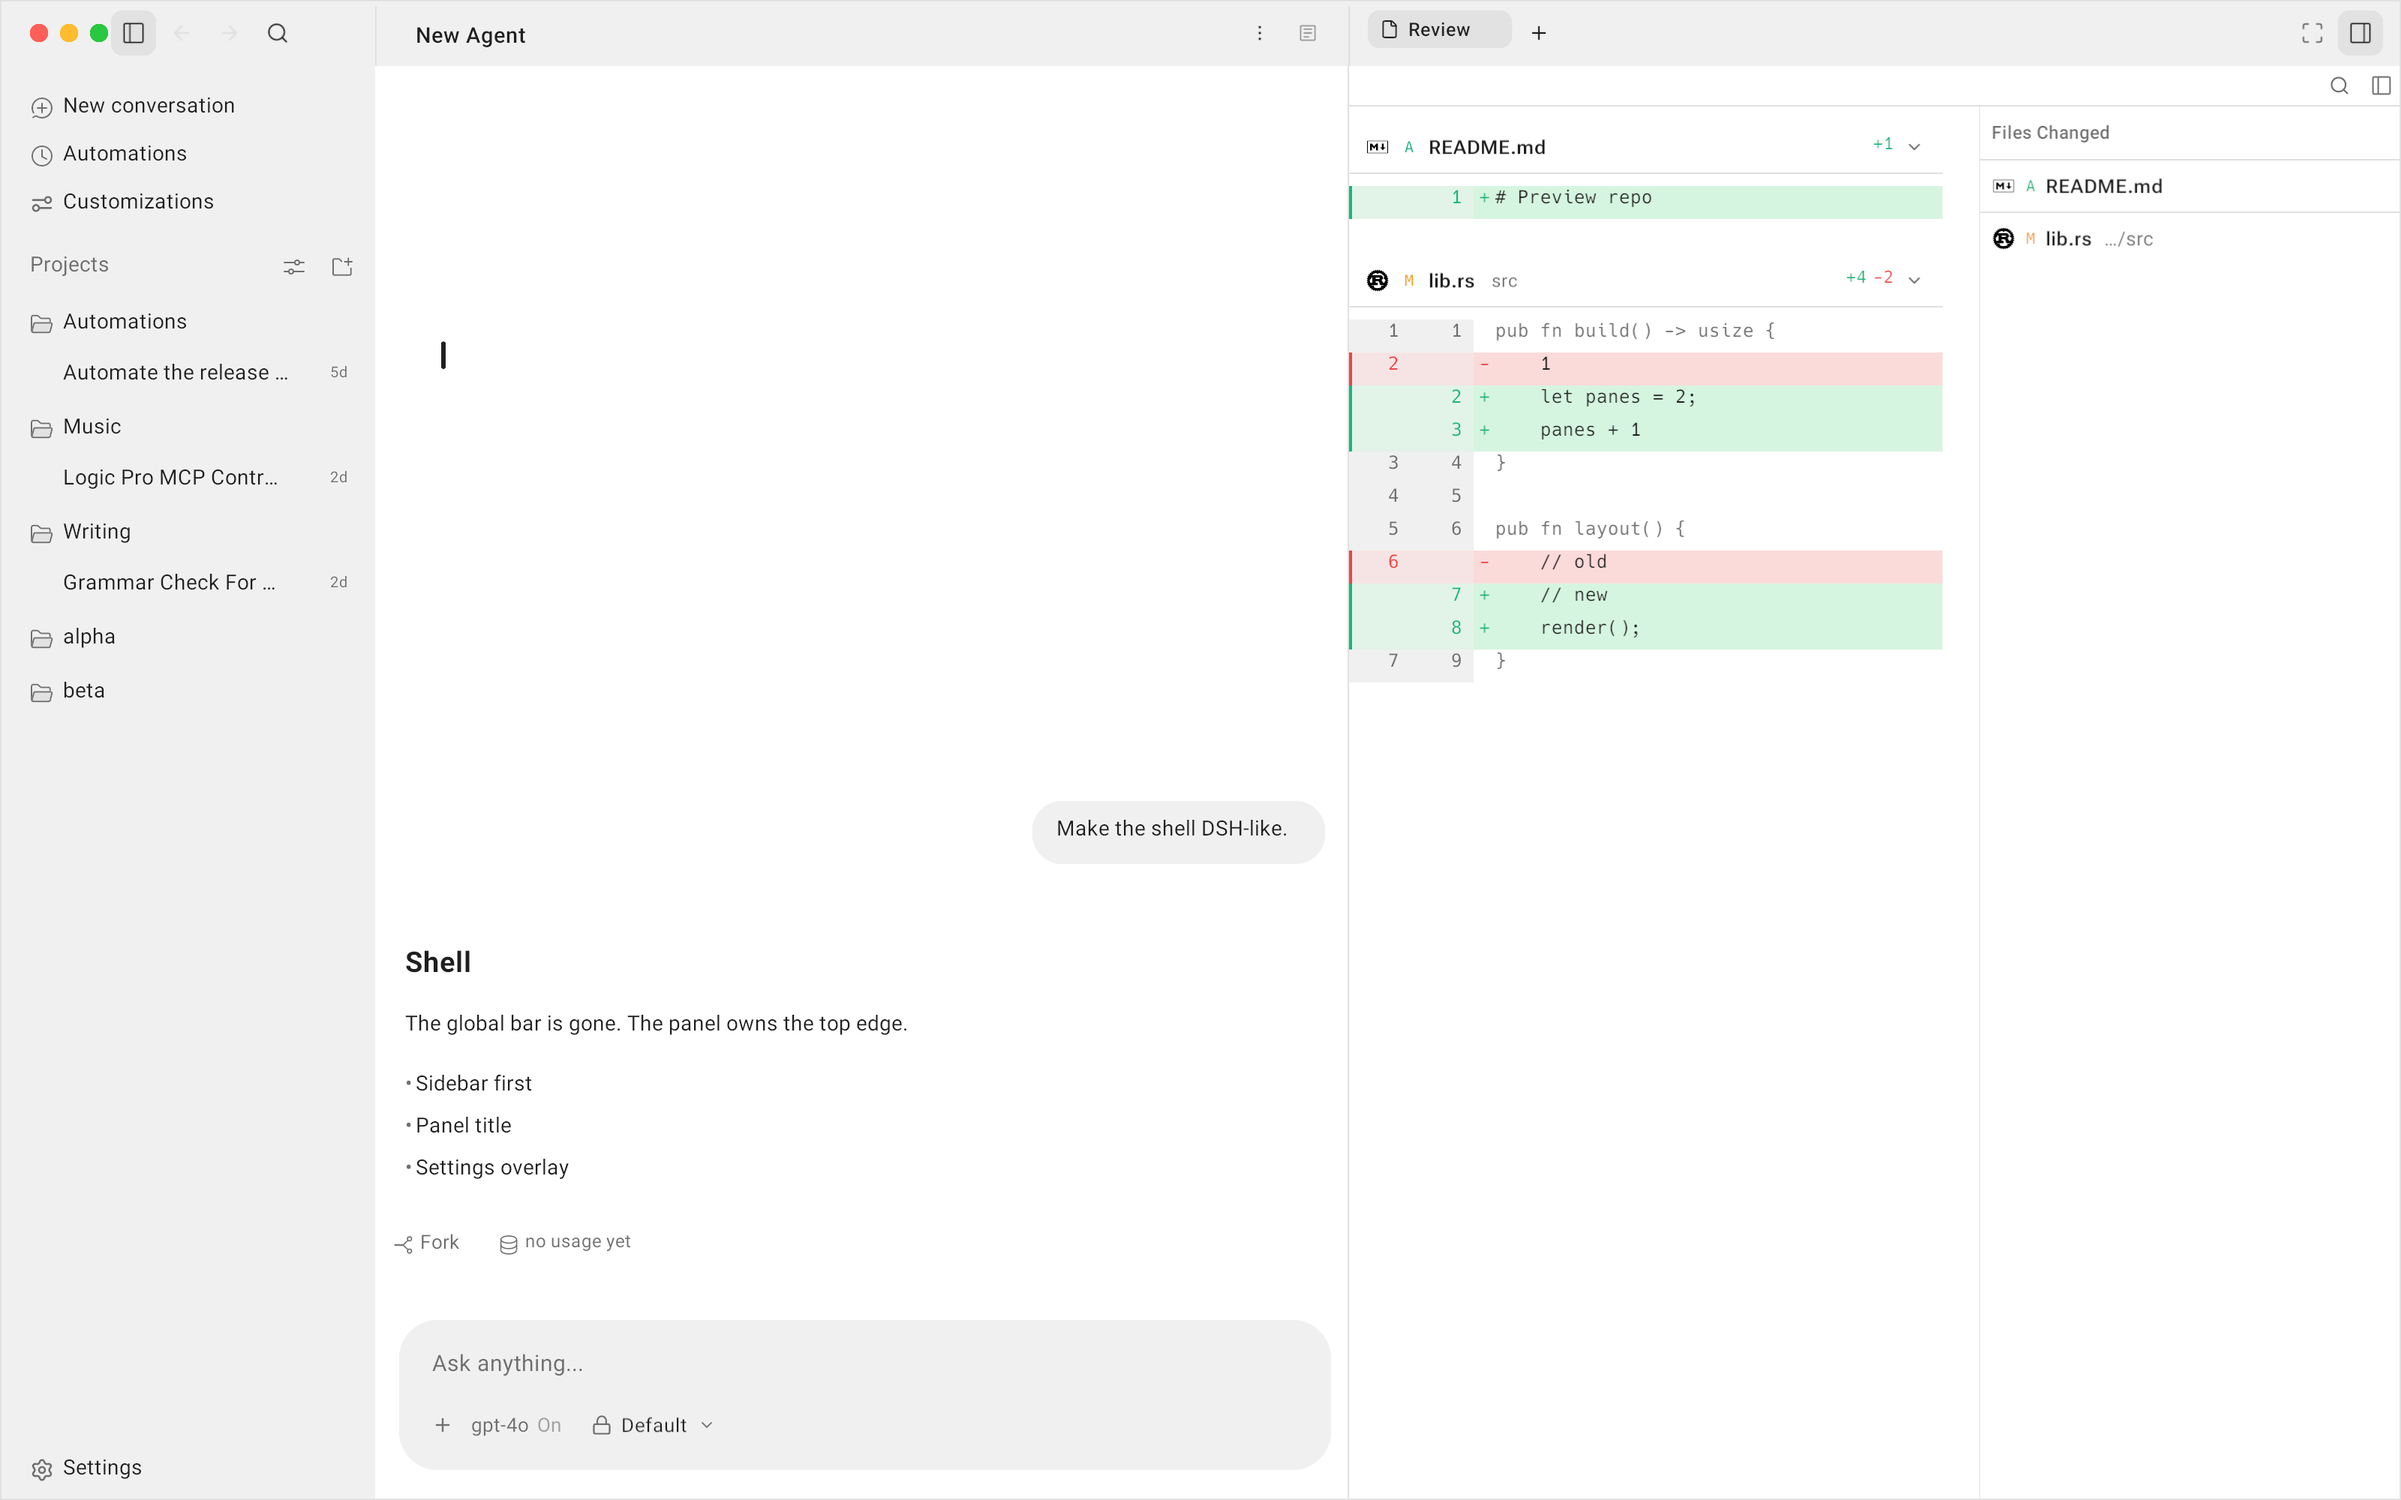
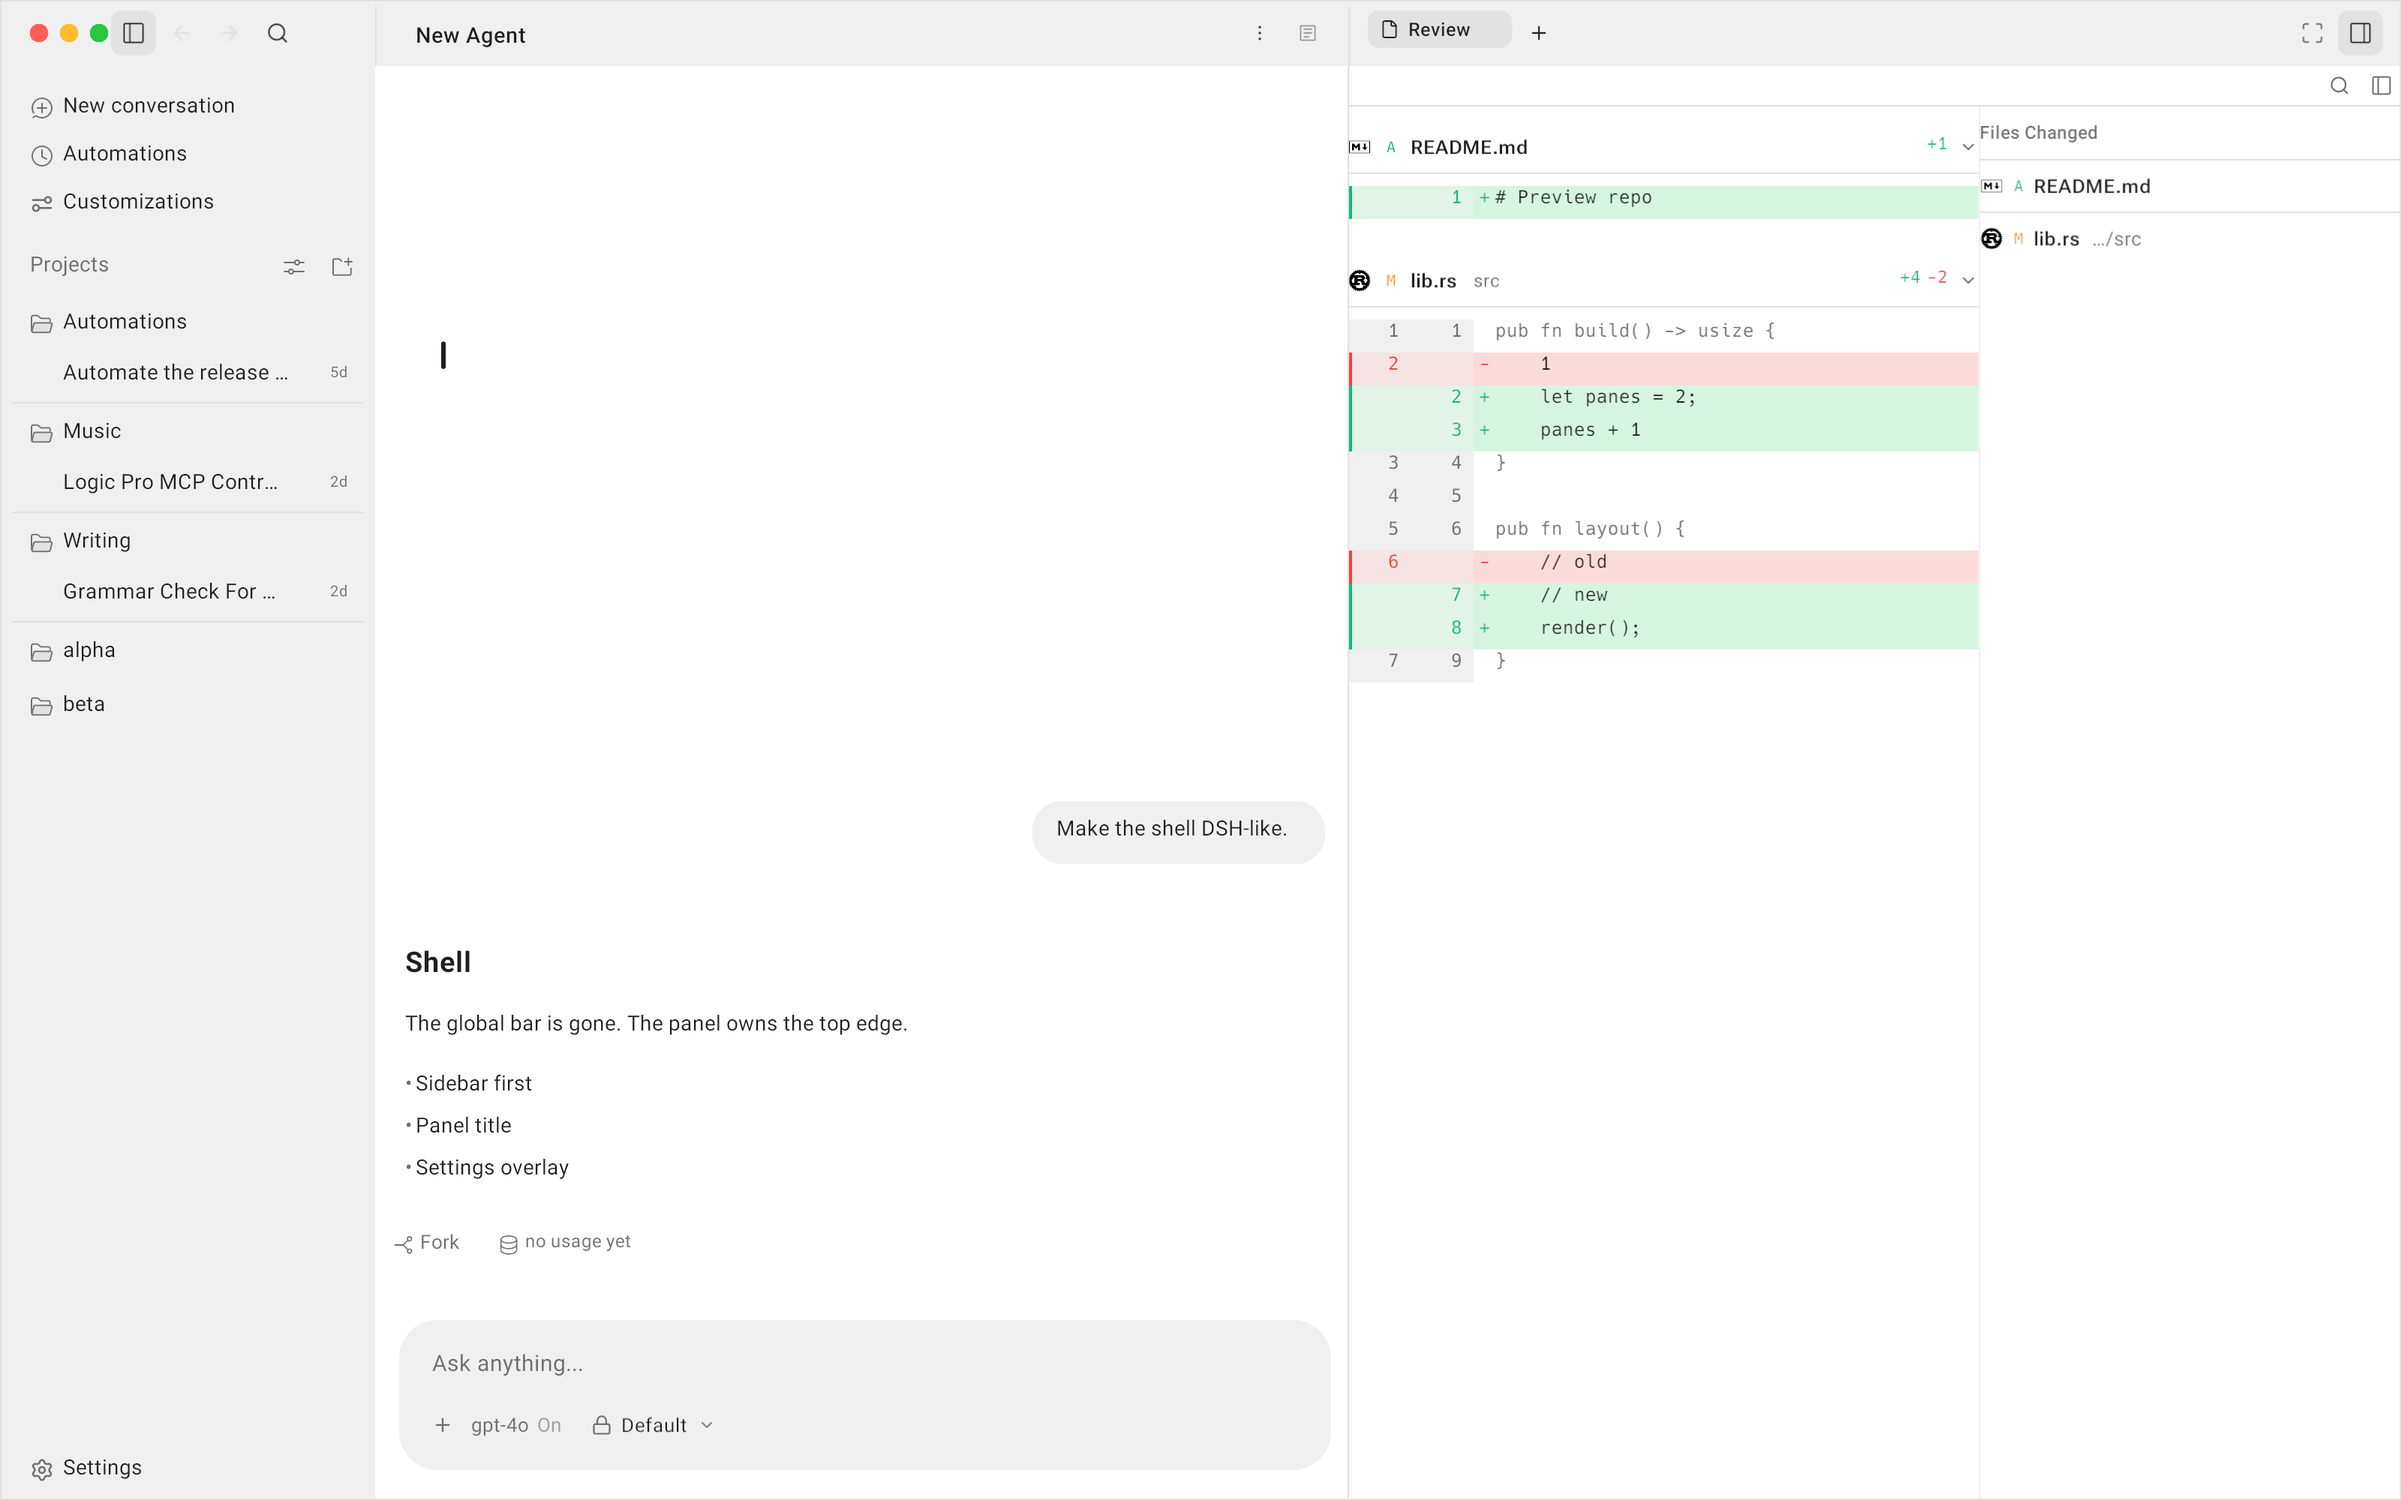
style(review): edge-to-edge rows and full-width diff bands
505/506/507/508 — file rows, the Files Changed rail and file headers are
full-bleed (no horizontal card padding), the list and rail are split by one
1px rule, the review body starts directly under the topbar rule, and the diff
comparison is laid out at the full list-column width so insertion/deletion
bands reach the column edges while long lines still swipe.

509 — committed a side-by-side comparison of the current Review tab against
the T3 review reference (dark+light), plus refreshed full Review previews.

Tests: goble-app 922 passed / 8 documented baseline failures; goble-ui 985
passed / 0 failed.

diff --git a/apps/desktop/src/ui/diff_panel.rs b/apps/desktop/src/ui/diff_panel.rs
@@ -373,7 +373,7 @@ pub(crate) fn build_review_tab(
                     controls.diff_list_scroll.clone(),
                     controls.diff_revert_confirm.clone(),
                     controls.diff_commit_focus.clone(),
-                    (panel_width - rail_width - if show_rail { 1.0 } else { 0.0 } - sm * 2.0 - 8.0)
+                    (panel_width - rail_width - if show_rail { 1.0 } else { 0.0 })
                         .max(200.0),
                     rail_width,
                 ))
@@ -1399,7 +1399,7 @@ fn file_header(
     let header = HoverRow::new(
         ConstrainedBox::new(
             Container::new(row)
-                .with_padding(EdgeInsets::new(12.0, 8.0, 12.0, 8.0))
+                .with_padding(EdgeInsets::new(0.0, 8.0, 0.0, 8.0))
                 .finish(),
         )
         .with_width(content_width)
@@ -1496,14 +1496,17 @@ fn file_body(
         // Y: in wrapped mode the add/del band spans the measured diff column;
         // unwrapped diffs keep their natural width so the sideways scroller
         // can move the whole box.
-        let diff = if view.wrap {
-            ConstrainedBox::new(diff).with_width(content_width).finish()
+        // 506: the change bands span the whole list column, even when the
+        // comparison is not wrapped; the width is the column's, not the
+        // longest line's.
+        let diff = ConstrainedBox::new(diff).with_min_width(content_width).finish();
+        if view.wrap {
+            diff
         } else {
             Scrollable::new(diff, Axis::Horizontal)
                 .with_state(horizontal_state(&hscroll, &file.absolute_path))
                 .finish()
-        };
-        diff
+        }
     }
 }
 

diff --git a/apps/desktop/src/ui/reviewer.rs b/apps/desktop/src/ui/reviewer.rs
@@ -1539,7 +1539,7 @@ pub(crate) fn files_changed_rail(
         }
         let row = HoverRow::new(
             Container::new(row)
-                .with_padding(EdgeInsets::new(8.0, 9.0, 8.0, 9.0))
+                .with_padding(EdgeInsets::new(0.0, 9.0, 0.0, 9.0))
                 .finish(),
         )
         .with_selected(sel)
@@ -1563,7 +1563,7 @@ pub(crate) fn files_changed_rail(
                     .with_theme_color(ColorToken::Muted, app)
                     .finish(),
             )
-            .with_padding(EdgeInsets::new(8.0, 10.0, 8.0, 10.0))
+            .with_padding(EdgeInsets::new(0.0, 10.0, 0.0, 10.0))
             .finish(),
         )
         .with_child(Divider::horizontal().finish())
